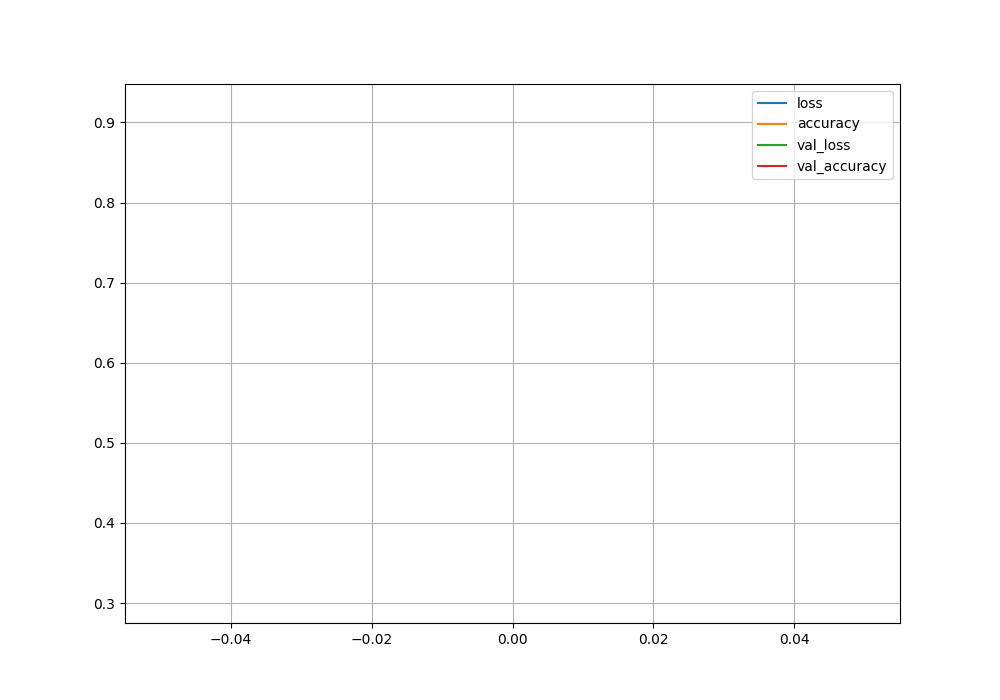
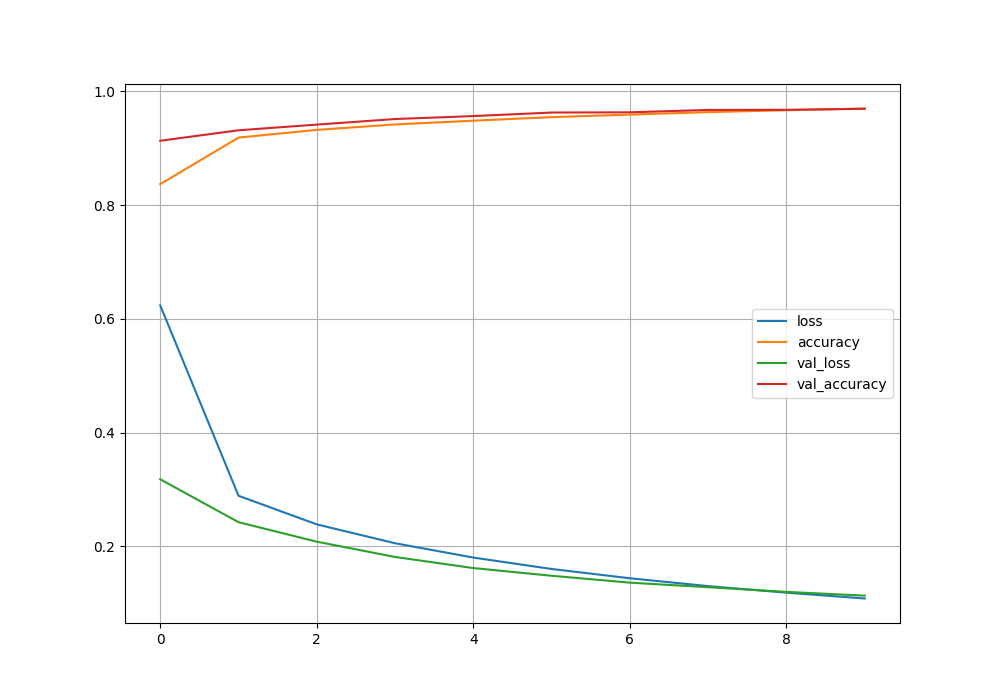
added gitingnore to unwanted files and implemented callbacks, save callback model, early stopping code

diff --git a/src/utils/callbacks.py b/src/utils/callbacks.py
@@ -1,0 +1,30 @@
+import numpy as np
+import tensorflow as tf
+import os
+import numpy as np
+import time
+
+
+def get_callbacks(config, x_train):
+    params=config["params"]
+    artifacts=config["artifacts"]
+    logs=config["logs"]
+    unique_dir_name=get_timestamp("tb_logs")
+    TENSORBOARD_ROOT_LOG_DIR=os.path.join(logs["logs_dir"], logs["TENSORBOARD_ROOT_LOG_DIR"], unique_dir_name)
+    os.makedirs(TENSORBOARD_ROOT_LOG_DIR, exist_ok=True)
+    tensorboard_cb=tf.keras.callbacks.TensorBoard(log_dir=TENSORBOARD_ROOT_LOG_DIR)
+    file_writer=tf.summary.create_file_writer(logdir=TENSORBOARD_ROOT_LOG_DIR)
+    images=np.reshape(x_train[10:30], (-1, 28, 28, 1))
+    tf.summary.image("20 handwritten digit samples: ", images,step=0)
+    early_stopping_cb=tf.keras.callbacks.EarlyStopping(patience=params["patience"], restore_best_weights=params["restore_best_weights"])
+    CKPT_DIR=os.path.join(artifacts["artifacts_dir"], artifacts["CHECKPOINT_DIR"])
+    os.makedirs(CKPT_DIR, exist_ok=True)
+    CKPT_path=os.path.join(CKPT_DIR, "model_ckpt.h5")
+    checkpointing_cb=tf.keras.callbacks.ModelCheckpoint(CKPT_path, save_best_only=True)
+    return [tensorboard_cb, early_stopping_cb, checkpointing_cb]
+
+
+def get_timestamp(name):
+    timestamp=time.asctime().replace(" ", "_").replace(":", "_")
+    unique_name=f"{name}_at_{timestamp}"
+    return unique_name

diff --git a/src/training.py b/src/training.py
@@ -5,6 +5,7 @@ import logging
 from src.utils.common import read_config
 import argparse
 import pandas as pd
+from src.utils.callbacks import get_callbacks
 
 def training(config_path):
     config=read_config(config_path)
@@ -31,7 +32,8 @@ def training(config_path):
     logging.info(f"y_valid shape: {y_valid.shape}")
     logging.info(f"X_train shape: {X_train.shape}")
     logging.info(f"y_train shape: {y_train.shape}")
-    history=model.fit(X_train, y_train,epochs=EPOCHS, validation_data=VALIDATION_SET)
+    CALLBACK_LIST=get_callbacks(config, X_train)
+    history=model.fit(X_train, y_train,epochs=EPOCHS, validation_data=VALIDATION_SET, callbacks=CALLBACK_LIST)
     model.evaluate(X_test, y_test)
     logging.info("model got evaluated")
     model_predict(model,X_test[:3],y_test[:3])

diff --git a/src/utils/model.py b/src/utils/model.py
@@ -70,8 +70,9 @@ def model_predict(model,x_new, y_test_new):
         for img_array, pred, actual in zip(x_new, y_pred, y_test_new):
                 plt.imshow(img_array, cmap="binary")
                 plt.title(f"predicted: {pred}, actual: {actual}")
+                #plt.savefig(historyplot_path)
                 plt.show()
-                print("--*20")
+                #print("--"*20)
         logging.info("all the predicted values got printed")
 
 

diff --git a/setup.py b/setup.py
@@ -5,7 +5,7 @@ with open("README.md", "r", encoding="utf-8") as f:
 
 setup(
     name="src",
-    version="0.0.1",
+    version="0.0.2",
     author="sujjitha",
     description="A small package for ANN Implementation",
     long_description=long_description,
